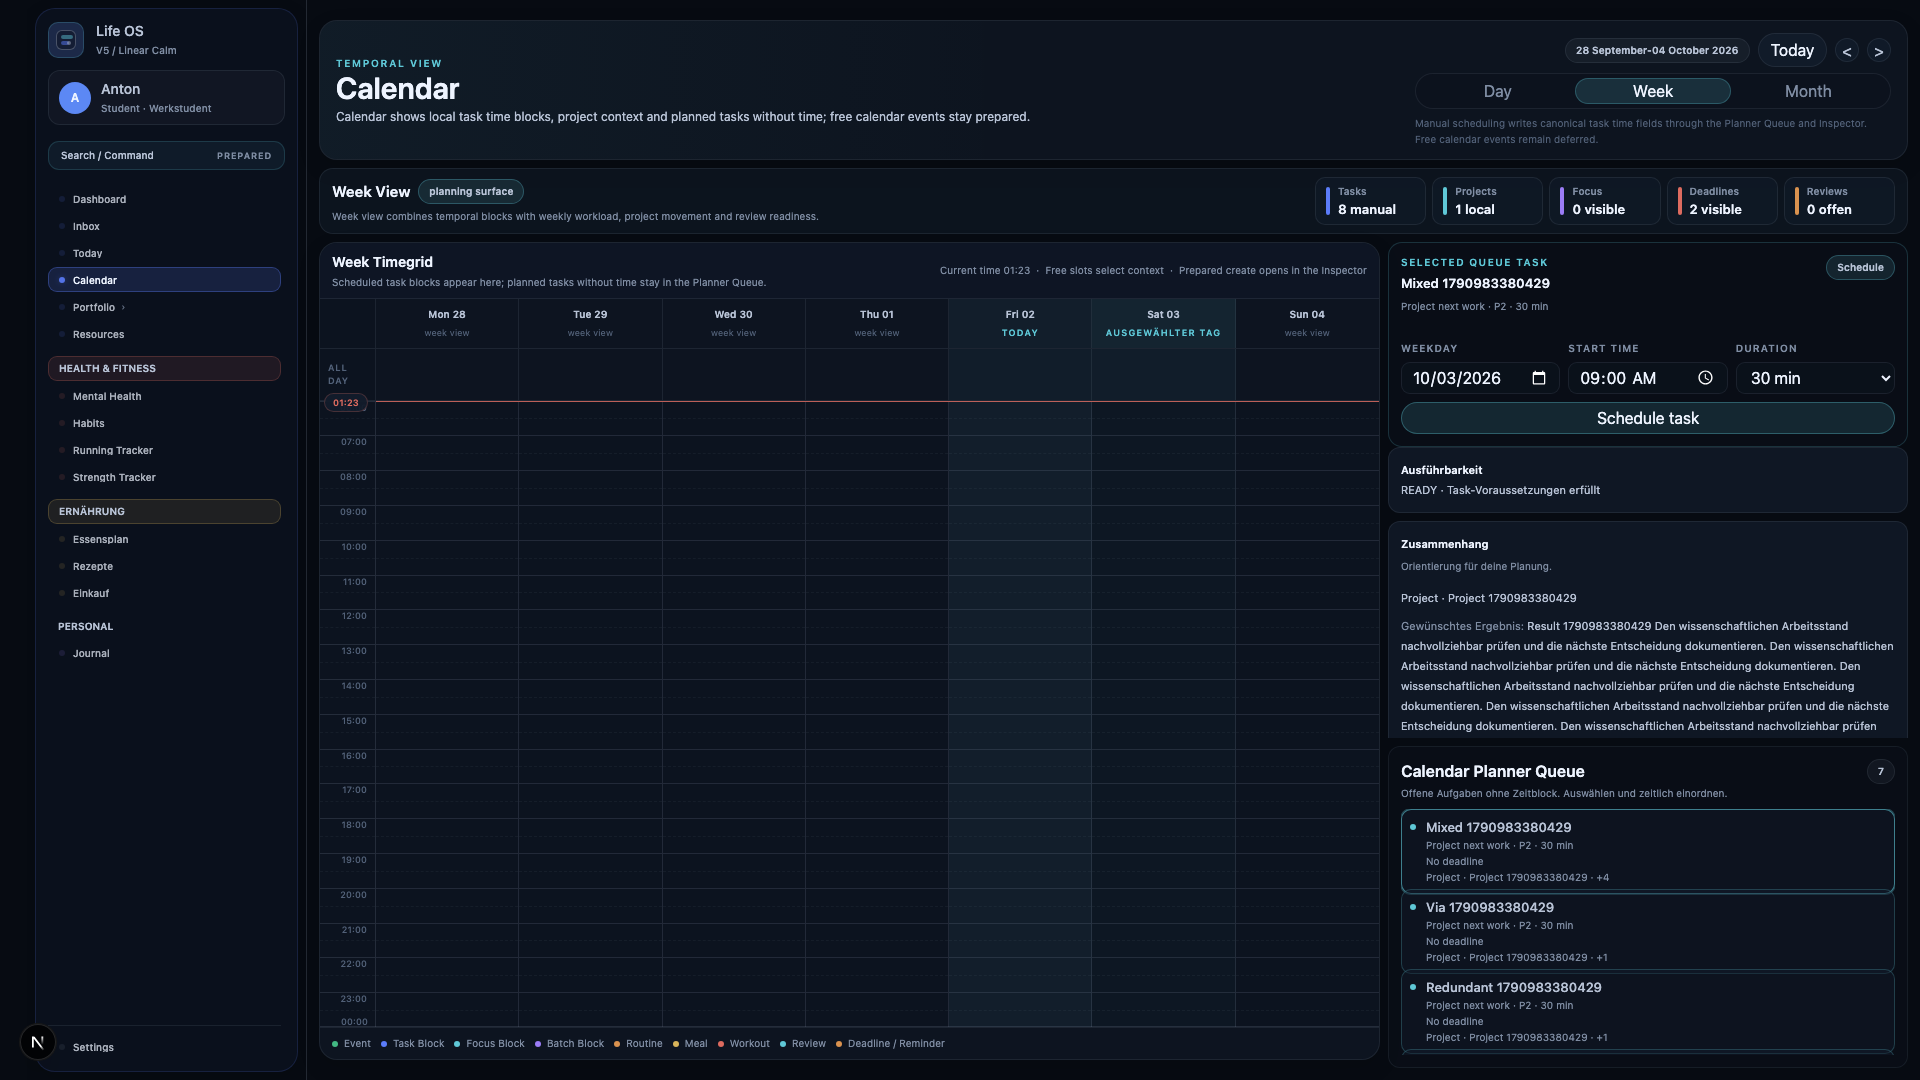
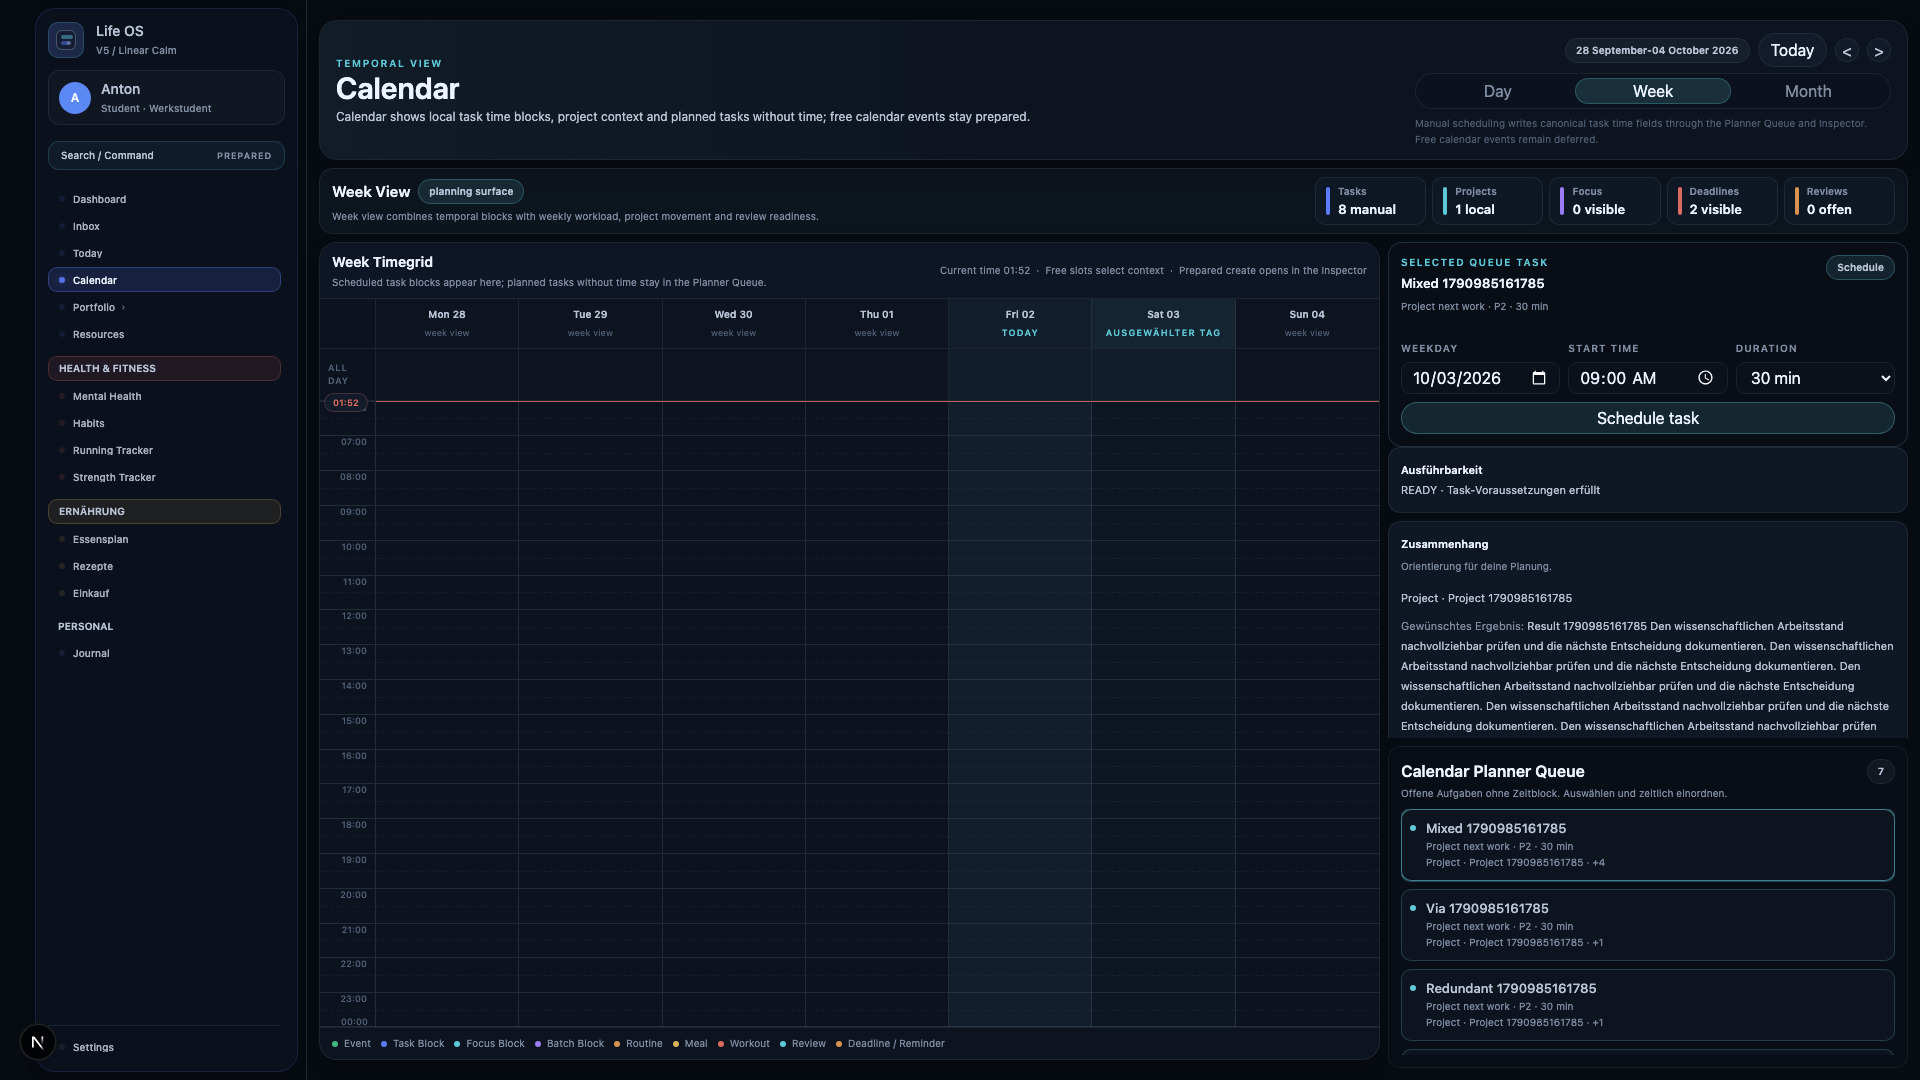
fix(calendar): distinguish empty and unavailable queue context (#97)

Changed region(s): [[0.7188, 0.7639, 0.8438, 0.9778], [0.9062, 0.55, 0.9375, 0.5806], [0.7812, 0.2444, 0.8125, 0.275]]

diff --git a/src/features/calendar/components/planner-queue-row-details.test.ts b/src/features/calendar/components/planner-queue-row-details.test.ts
@@ -1,0 +1,81 @@
+import { createElement } from "react";
+import { renderToStaticMarkup } from "react-dom/server";
+import { expect, it } from "vitest";
+import type { PlannerQueueItem } from "../calendar-types";
+import {
+  enrichPlannerQueue,
+  type WeeklyTaskContext,
+} from "../weekly-task-context";
+import { PlannerQueueRowDetails } from "./planner-queue-row-details";
+
+const task: PlannerQueueItem = {
+  id: "ready",
+  title: "Ready Task",
+  area: "Work",
+  priority: "P2",
+  durationMinutes: 30,
+  isRecurringOccurrence: false,
+  skills: [],
+  rankingGroup: "backlog",
+  rankingReason: "Backlog",
+};
+const context: WeeklyTaskContext = {
+  id: task.id,
+  title: task.title,
+  execution: "READY",
+  blockers: [],
+  goalConflict: false,
+  goals: [],
+  skills: [],
+};
+function render(
+  source: WeeklyTaskContext,
+  overrides: Partial<PlannerQueueItem> = {},
+  sourceLabel: string | null = null,
+) {
+  const [enriched] = enrichPlannerQueue([{ ...task, ...overrides }], {
+    [task.id]: source,
+  });
+  expect(enriched.id).toBe(task.id);
+  expect(enriched.rankingGroup).toBe(task.rankingGroup);
+  return renderToStaticMarkup(
+    createElement(PlannerQueueRowDetails, { task: enriched, sourceLabel }),
+  );
+}
+it("renders real context orientation and only existing planning metadata", () => {
+  const real = {
+    ...context,
+    project: { id: "project", title: "Real Project", result: null },
+  };
+  const markup = render(
+    real,
+    { dueDate: "2026-10-03", isRecurringOccurrence: true },
+    "Meal source",
+  );
+  expect(markup).toContain("data-queue-orientation");
+  expect(markup).toContain("Project · Real Project");
+  expect(markup).toContain("Deadline 2026-10-03 · Recurring · Meal source");
+  expect(markup).not.toContain("No deadline");
+  expect(render(real, { isRecurringOccurrence: true })).toContain(
+    ">Recurring</p>",
+  );
+  expect(render(real, {}, "Meal source")).toContain(">Meal source</p>");
+});
+it("renders no orientation or metadata row for a genuine no-context Task", () => {
+  const markup = render(context);
+  expect(markup).not.toContain("data-queue-orientation");
+  expect(markup).not.toContain("data-queue-planning-metadata");
+  expect(markup).not.toContain("No deadline");
+  expect(markup).not.toContain("nicht verfügbar");
+});
+it("keeps context-read failure visibly distinct from empty for an otherwise READY Task", () => {
+  const markup = render(
+    { ...context, unavailable: true },
+    { orientation: "Stale Project" },
+  );
+  expect(markup).toContain("data-queue-orientation");
+  expect(markup).toContain("Kontext derzeit nicht verfügbar");
+  expect(markup).not.toContain("Stale Project");
+  expect(markup).not.toContain("data-queue-planning-metadata");
+  expect(markup).not.toContain("No deadline");
+});

diff --git a/src/features/calendar/components/calendar-right-panel.tsx b/src/features/calendar/components/calendar-right-panel.tsx
@@ -2,10 +2,8 @@
 
 import { useToast } from "@/components/feedback/toast-provider";
 import { WeeklyTaskContextPanel } from "./weekly-task-context";
-import {
-  weeklyOrientation,
-  type WeeklyTaskContext,
-} from "../weekly-task-context";
+import type { WeeklyTaskContext } from "../weekly-task-context";
+import { PlannerQueueRowDetails } from "./planner-queue-row-details";
 import type { ContentStateMeta } from "@/features/content-state";
 import Link from "next/link";
 import { useRouter } from "next/navigation";
@@ -1183,36 +1181,10 @@ function PlanningQueue({
                   {task.rankingReason} · {task.priority} ·{" "}
                   {durationLabel(task.durationMinutes)}
                 </p>
-                <p className="truncate text-[10px] leading-4 text-[var(--text-muted)]">
-                  {task.dueDate ? `Deadline ${task.dueDate}` : "No deadline"}
-                  {task.isRecurringOccurrence ? " · Recurring" : ""}
-                  {sourceTypeLabel(task.scheduleSourceType)
-                    ? ` · ${sourceTypeLabel(task.scheduleSourceType)}`
-                    : ""}
-                </p>
-                <p
-                  data-queue-orientation
-                  className="truncate text-[10px] leading-4 text-[var(--text-muted)]"
-                >
-                  {task.orientation ??
-                    weeklyOrientation({
-                      project: task.project
-                        ? { ...task.project, result: null }
-                        : undefined,
-                      goals: task.goal
-                        ? [
-                            {
-                              ...task.goal,
-                              description: null,
-                              why: null,
-                              support: [],
-                              path: "direct",
-                            },
-                          ]
-                        : [],
-                      skills: [...task.skills],
-                    })}
-                </p>
+                <PlannerQueueRowDetails
+                  task={task}
+                  sourceLabel={sourceTypeLabel(task.scheduleSourceType)}
+                />
               </div>
             </div>
           </button>

diff --git a/src/features/calendar/components/planner-queue-row-details.tsx b/src/features/calendar/components/planner-queue-row-details.tsx
@@ -1,0 +1,57 @@
+import type { PlannerQueueItem } from "../calendar-types";
+import { weeklyOrientation } from "../weekly-task-context";
+
+/** Queue-only display; eligibility, ordering and Inspector context stay separate. */
+export function PlannerQueueRowDetails({
+  task,
+  sourceLabel,
+}: {
+  task: PlannerQueueItem;
+  sourceLabel: string | null;
+}) {
+  const metadata = [
+    task.dueDate ? `Deadline ${task.dueDate}` : undefined,
+    task.isRecurringOccurrence ? "Recurring" : undefined,
+    sourceLabel,
+  ]
+    .filter(Boolean)
+    .join(" · ");
+  const orientation = task.contextUnavailable
+    ? "Kontext derzeit nicht verfügbar"
+    : (task.orientation ??
+      weeklyOrientation({
+        project: task.project ? { ...task.project, result: null } : undefined,
+        goals: task.goal
+          ? [
+              {
+                ...task.goal,
+                description: null,
+                why: null,
+                support: [],
+                path: "direct",
+              },
+            ]
+          : [],
+        skills: [...task.skills],
+      }));
+  return (
+    <>
+      {metadata ? (
+        <p
+          data-queue-planning-metadata
+          className="truncate text-[10px] leading-4 text-[var(--text-muted)]"
+        >
+          {metadata}
+        </p>
+      ) : null}
+      {orientation ? (
+        <p
+          data-queue-orientation
+          className="truncate text-[10px] leading-4 text-[var(--text-muted)]"
+        >
+          {orientation}
+        </p>
+      ) : null}
+    </>
+  );
+}

diff --git a/tests/e2e/issue-97-weekly-context.spec.ts b/tests/e2e/issue-97-weekly-context.spec.ts
@@ -327,6 +327,10 @@ test("PP3 canonical context, READY queue, two owners, no-write reads, Week hando
       .getByRole("button", { name: new RegExp(mixed.title) })
       .locator("[data-queue-orientation]"),
   ).toContainText("+4");
+  await expect(queue).not.toContainText("No deadline");
+  const plainRow = queue.getByRole("button", { name: new RegExp(plain.title) });
+  await expect(plainRow.locator("[data-queue-orientation]")).toHaveCount(0);
+  await expect(plainRow.locator("[data-queue-planning-metadata]")).toHaveCount(0);
   await expect(relation).toContainText("Abweichende Goal-Pfade");
   for (const text of [
     project.title,

diff --git a/src/features/calendar/weekly-task-context.ts b/src/features/calendar/weekly-task-context.ts
@@ -184,10 +184,18 @@ export function enrichPlannerQueue(
   return queue.map((item) => {
     const context = contexts[item.id];
     if (!context || context.unavailable)
-      return { ...item, project: undefined, goal: undefined, skills: [] };
+      return {
+        ...item,
+        contextUnavailable: true,
+        orientation: undefined,
+        project: undefined,
+        goal: undefined,
+        skills: [],
+      };
     const goal = context.goals[0];
     return {
       ...item,
+      contextUnavailable: false,
       orientation: weeklyOrientation(context),
       project: context.project,
       goal: goal

diff --git a/src/features/calendar/calendar-types.ts b/src/features/calendar/calendar-types.ts
@@ -241,6 +241,7 @@ export type PlannerQueueSkillContext = {
 };
 
 export type PlannerQueueItem = {
+  contextUnavailable?: boolean;
   orientation?: string;
   accent?: string;
   area: string;

diff --git a/docs/product/capability-registry.md b/docs/product/capability-registry.md
@@ -1707,7 +1707,7 @@ explicit support relations explain planning without selecting or ranking work.
 
 | Affected control / boundary | Current evidence |
 |---|---|
-| Every fixture Queue row; scheduling selection; Planung schließen | Actual clicks in `tests/e2e/issue-97-weekly-context.spec.ts`; READY membership implicit; compact orientation remains inside row bounds |
+| Every fixture Queue row; scheduling selection; Planung schließen | Actual clicks in `tests/e2e/issue-97-weekly-context.spec.ts`; READY membership implicit; compact orientation remains inside row bounds; absent Deadline/Recurrence/Source metadata and genuine empty orientation render no row; context-read failure shows `Kontext derzeit nicht verfügbar` (`planner-queue-row-details.test.ts`, three rendering regressions) |
 | Project, both Goal paths, both Skills and real predecessor links | Each navigated to the canonical owned detail; direct/via/redundant/conflict and Task/Project Goal-Etappe support asserted in the shared Zusammenhang region |
 | Task → Week, URL selection, queue/scheduled/deep-linked Inspector, close/Escape | Real Task Detail handoff with task/date/view=week, reload, Enter selection and Escape focus return; ineligible deep links expose read-only execution context without entering the Queue |
 | Queue Schedule; Inspector Reschedule/Unschedule, earlier/later, duration ±15; source link | Authenticated existing actions, visible feedback, persisted readback/reload, Today/Dashboard projections; `r2-03-calendar-temporal.spec.ts` inventories/clicks these controls |
